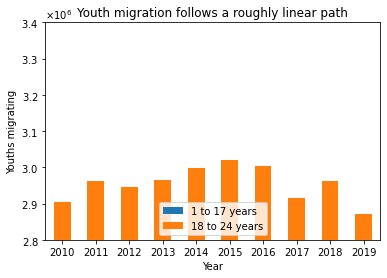
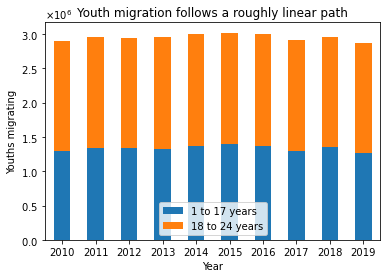
Additional plotting and plots

diff --git a/src/age_and_sex_plots.py b/src/age_and_sex_plots.py
@@ -12,7 +12,7 @@ Basic data processing and importing. A pyplot call is used, and one image is cre
 
 from src.MigrationData import MigrationData
 import pandas as pd
-#import matplotlib.pyplot as plt
+import matplotlib.pyplot as plt
 #import numpy as np
 
 def correct_year(year):
@@ -149,40 +149,87 @@ if  __name__ == '__main__':
         age_data_allyrs[year] = age_data_allyrs[year].sum()
     #Break into under 24 and over 24
     age_data_df = pd.DataFrame(age_data_allyrs.values(), index = years, columns = age_keys)
-    frame_young = {age_keys[0]: age_data_df[age_keys[0]], age_keys[1]: age_data_df[age_keys[1]]}
+    age_data_df.loc[:,'Total'] = age_data_df.sum(axis=1)
+    '''frame_young = {age_keys[0]: age_data_df[age_keys[0]], age_keys[1]: age_data_df[age_keys[1]]}
     y_pf=pd.DataFrame(frame_young) #youth pandas dataframe
     y_plot = y_pf.plot.bar(stacked=True, title = "Youth migration follows a roughly linear path", rot = 0); 
     #y_plot means youth's plot
     y_plot.legend(loc = 'lower center')
     #y_plot.grid(axis = 'y')
-    y_plot.set_ylim((2800000,3400000))
+    #y_plot.set_ylim((2800000,3400000))
     #y_plot.spines['top'].set_visible(False)
     y_plot.ticklabel_format(axis = 'y', useMathText = True)
     y_plot.set_ylabel("Youths migrating")
     y_plot.set_xlabel("Year")
-    y_plot.plot()
+    y_plot.plot()'''
     
-    frame_worth = {age_keys[2]: age_data_df[age_keys[2]]}
-    w_df = pd.DataFrame(frame_worth)
-    w_plot = w_df.plot.bar(title = "~350k increase in working class migration", rot = 0)
-    w_plot.ticklabel_format(axis = 'y', useMathText = True)
+    for age in age_keys:
+        age_data_df[age] = age_data_df[age]/age_data_df['Total']
+    age_data_df = age_data_df.drop(columns = 'Total')
+    ax2 = age_data_df.plot()
+    ax2.set_ylabel("Age demographics")
+    ax2.set_xlabel("Year")
+    ax2.plot()
+    
+    
+    '''#Below are other plots, that are kept for documentation purposes and DID NOT make it into the presentation
+    sizes = [age_data_df[age_keys[0]][2010]/age_data_df['Total'][2010], age_data_df[age_keys[1]][2010]/age_data_df['Total'][2010], age_data_df[age_keys[2]][2010]/age_data_df['Total'][2010], age_data_df[age_keys[3]][2010]/age_data_df['Total'][2010]]
+    explode = (0,0,0,0)
+    fig1, ax1 = plt.subplots()
+    ax1.pie(sizes, explode=explode, labels=age_keys, autopct='%1.1f%%', shadow=True, startangle=90)
+    ax1.axis('equal')  # Equal aspect ratio ensures that pie is drawn as a circle.
+    ax1.title.set_text("Age composition in 2010")
+    plt.show()
+    
+    sizes = [age_data_df[age_keys[0]][2019]/age_data_df['Total'][2019], age_data_df[age_keys[1]][2019]/age_data_df['Total'][2019], age_data_df[age_keys[2]][2019]/age_data_df['Total'][2019], age_data_df[age_keys[3]][2019]/age_data_df['Total'][2019]]
+    explode = (0,0,0,0)
+    fig1, ax1 = plt.subplots()
+    ax1.pie(sizes, explode=explode, labels=age_keys, autopct='%1.1f%%', shadow=True, startangle=90)
+    ax1.axis('equal')  # Equal aspect ratio ensures that pie is drawn as a circle.
+    ax1.title.set_text("Age composition in 2019")
+    plt.show()'''
+    
+    '''#Plotting the increase in working class migration
+    #frame_worth = {age_keys[2]: age_data_df[age_keys[2]]}
+    #w_df = pd.DataFrame(frame_worth)
+    w_plot = age_data_df[age_keys[3]].plot(title = "Large increase in old people migrating", rot = 0)
+    w_plot.ticklabel_format(axis = 'y')
     w_plot.set_xlabel("Year")
     w_plot.legend(loc = 'lower right')
-    w_plot.set_ylim((2800000,3400000))
-    w_plot.plot()
+    w_plot.plot()'''
     
-    '''#Plotting sex data, specifically the difference in the male and female migrants
+    #Plotting sex data, specifically the difference in the male and female migrants with bar graphs
     sex_data = get_sex_group_data_allyrs(years,False)
     for year in years:
         sex_data[year] = sex_data[year].sum()
     sex_data_df = pd.DataFrame(sex_data.values(), index = years, columns = ['Male', 'Female'])
     #initial_sex_dif = sex_data_df['Male'][2010] - sex_data_df['Female'][2010]
     #fin_sex_dif = sex_data_df['Male'][2019] - sex_data_df['Female'][2019]
-    sex_data_df['difference'] = sex_data_df['Male'] - sex_data_df['Female']
-    ax = sex_data_df['difference'].plot.bar(rot = 0, title = "Closing gap between Male and Female migrations from 2010 to 2019 in the US.")
-    ax.spines['right'].set_visible(False)
-    ax.spines['top'].set_visible(False)
-    ax.get_legend().remove()
-    ax.set_ylabel('Total male migrants - total female migrants')
-    ax.ticklabel_format(useOffset=False, style='plain', axis='y')
-    ax.plot()'''
+    sex_data_df['Total'] = sex_data_df['Male'] + sex_data_df['Female']
+    sex_data_df['Male'] = sex_data_df['Male']/ sex_data_df['Total']
+    sex_data_df['Female'] = sex_data_df['Female']/ sex_data_df['Total']
+    sex_data_df = sex_data_df.drop(columns = 'Total')
+    ax = sex_data_df.plot(title = 'Male vs female migration percent trends')
+    ax.set_ylabel("Percent of migrants")
+    ax.set_xlabel("Year")
+    ax.plot()
+    
+    
+    '''#Plotting for 2010 pie chart male vs female
+    labels = 'Male', 'Female'
+    sizes = [sex_data_df['Male'][2010], sex_data_df['Female'][2010]]
+    explode = (0,0)
+    fig1, ax1 = plt.subplots()
+    ax1.pie(sizes, explode=explode, labels=labels, autopct='%1.1f%%', shadow=True, startangle=90)
+    ax1.axis('equal')  # Equal aspect ratio ensures that pie is drawn as a circle.
+    ax1.title.set_text("Male vs female percent in 2010")
+    plt.show()
+    #Plotting for 2019 pie chart male vs female
+    sizes = [sex_data_df['Male'][2019], sex_data_df['Female'][2019]]
+    explode = (0,0)
+    fig2, ax2 = plt.subplots()
+    ax2.pie(sizes, explode=explode, labels=labels, autopct='%1.1f%%', shadow=True, startangle=90)
+    ax2.title.set_text("Male vs female percent in 2019")
+    ax2.axis('equal')  # Equal aspect ratio ensures that pie is drawn as a circle.
+    plt.show()'''
+    
